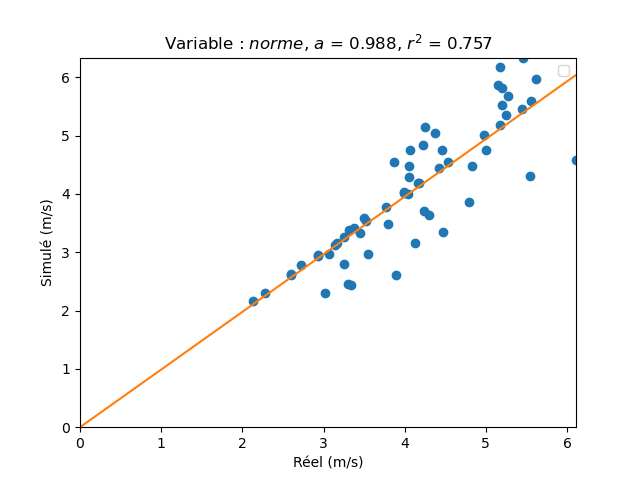
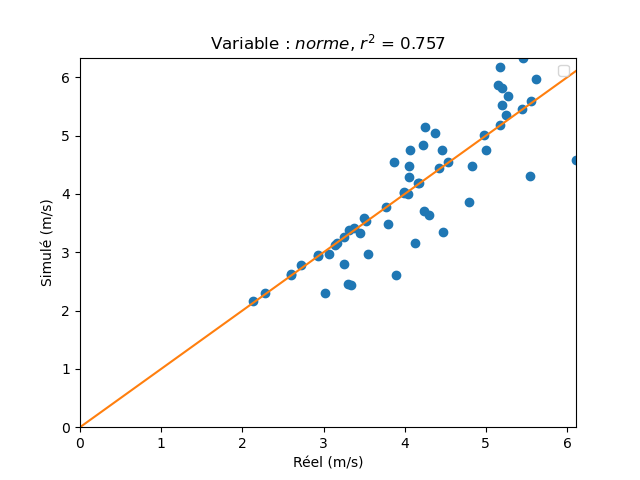
c

diff --git a/scr/wind_test-doctorante.py b/scr/wind_test-doctorante.py
@@ -9,10 +9,11 @@ import xlrd
 import seaborn as sns
 
 #%%
-folder = 'G:/Mon Drive/PIE COA 08/Codes/TESTS/FICHIERS TESTS/Données doctorante/OUTPUT DATA/H'
+ROOT = 'G:/Mon Drive/PIE COA 08/Codes/PGM/spatio-temporal_wind_modeling/spatio-temporal_wind_modeling/data/Test_phase1_doctorante/'
 coord_station = (43.1498753, 0.3560498)
 
-input_data_wb = xlrd.open_workbook('G:/Mon Drive/PIE COA 08/Codes/TESTS/FICHIERS TESTS/Données doctorante/INPUT DATA/data_test_doctorante.xls')
+folder = ROOT + 'OUTPUT DATA/H'
+input_data_wb = xlrd.open_workbook(ROOT + 'INPUT DATA/data_test_doctorante.xls')
 
 altitude_station = [30, 45, 60]
 N = 20
@@ -124,9 +125,10 @@ def print_err_simu(data, name, plot = True):
     #     sim = [i *1000 for i in sim]
     #     reel = [i*1000 for i in reel]
 
-    a, _, _, _ =  np.linalg.lstsq(reel[:,np.newaxis], sim)
+    # a, _, _, _ =  np.linalg.lstsq(reel[:,np.newaxis], sim)
 
-    a = a[0]
+    # a = a[0]
+    a = 1
     x = np.linspace(min(0,np.min(reel)), np.max(reel))
     y = a * x
 
@@ -144,15 +146,16 @@ def print_err_simu(data, name, plot = True):
         plt.xlabel('Réel (m/s)')
         plt.ylabel('Simulé (m/s)')
 
-        plt.title('Variable : ${}$, $a$ = {}, $r^2$ = {}'.format(name, int(a*1000)/1000, int(r[0,1]**2*1000)/1000))
+        # plt.title('Variable : ${}$, $a$ = {}, $r^2$ = {}'.format(name, int(a*1000)/1000, int(r[0,1]**2*1000)/1000))
+        plt.title('Variable : ${}$, $r^2$ = {}'.format(name, int(r[0,1]**2*1000)/1000))
         
         plt.legend()
         plt.show()
 
-# print_err_simu([U_Fin], 'u', False)
-# print_err_simu([V_Fin], 'v', False)
-# print_err_simu([W_Fin], 'w', False)
-# print_err_simu([Norme_Fin], 'norme', False)
-# print_err_simu([Norme_Plan_Fin], 'norme plane', False)
-# print_err_simu([U_Fin, V_Fin, W_Fin, Norme_Fin, Norme_Plan_Fin], 'total', False)
+print_err_simu([U_Fin], 'u', True)
+print_err_simu([V_Fin], 'v', False)
+print_err_simu([W_Fin], 'w', False)
+print_err_simu([Norme_Fin], 'norme', False)
+print_err_simu([Norme_Plan_Fin], 'norme plane', False)
+print_err_simu([U_Fin, V_Fin, W_Fin, Norme_Fin, Norme_Plan_Fin], 'total', False)
 
